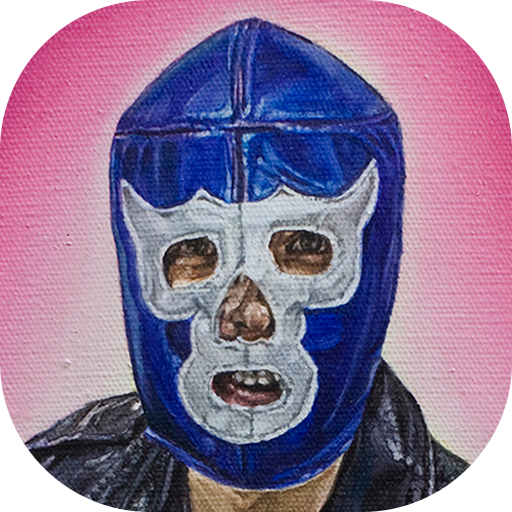
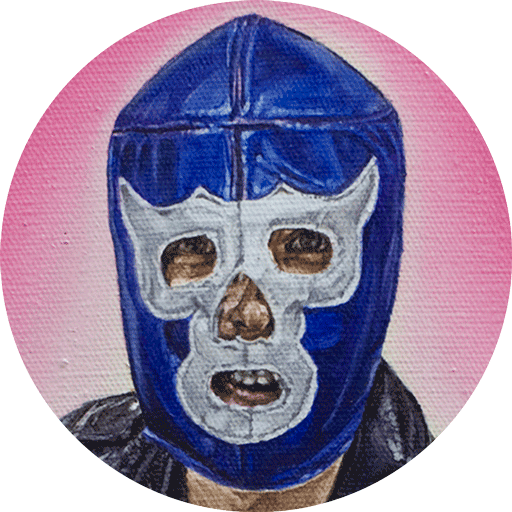
Final

diff --git a/gatsby-config.js b/gatsby-config.js
@@ -19,7 +19,8 @@ module.exports = {
   siteMetadata: {
     title: 'Pavle Pavlović',
     siteUrl: 'https://www.pavlepavlovic.com/',
-    description: 'Portfolio Page of Croatian artist Pavle Pavlović',
+    description: 'Portfolio page of Croatian artist Pavle Pavlović',
+    image: `src/images/icon.png`,
   },
   plugins: [
     {

diff --git a/src/hooks/use-site-metadata.js b/src/hooks/use-site-metadata.js
@@ -9,6 +9,7 @@ export const useSiteMetadata = () => {
             title
             siteUrl
             description
+            image
           }
         }
       }
